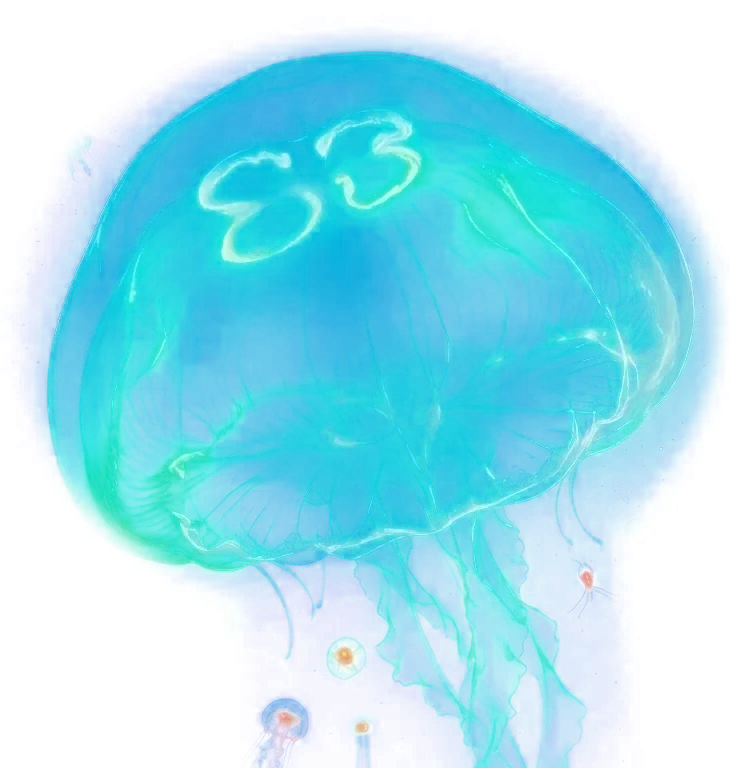
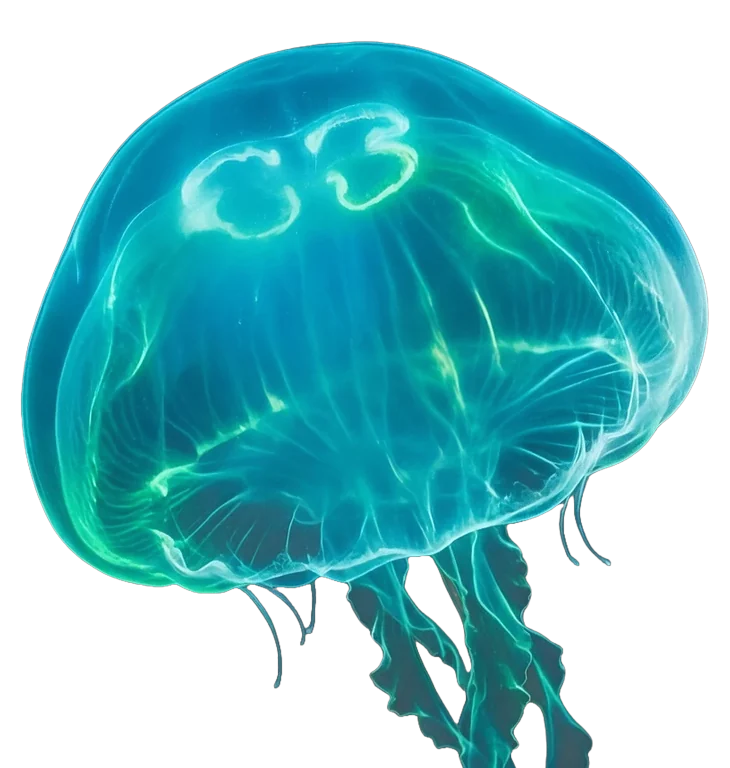
Catalog header: the clean, isolated jellyfish PNG
Replaces the jellyfish cut from the background picture (which carried
the small fish around it) with the supplied cut-out, slightly
translucent so the water shows through.

Claude-Session: https://claude.ai/code/session_0195hiXiVZY5DpQ2CCYEr2vL

diff --git a/index.html b/index.html
@@ -4,7 +4,7 @@
 <meta charset="UTF-8">
 <meta name="viewport" content="width=device-width, initial-scale=1">
 <title>Parts Catalog — Christian Gehrke</title>
-<link rel="stylesheet" href="css/catalog.css?v=1793640000">
+<link rel="stylesheet" href="css/catalog.css?v=1793650000">
 <link rel="stylesheet" href="css/logo.css?v=6">
 <link rel="icon" href="/favicon.ico?v=2" sizes="any"><link rel="icon" href="/favicon.svg?v=2" type="image/svg+xml"><link rel="apple-touch-icon" href="/apple-touch-icon.png?v=2">
 <script>/* Logo season from the calendar (the homepage sets it from its own scene). */document.documentElement.dataset.season=["winter","winter","spring","spring","spring","summer","summer","summer","fall","fall","fall","winter"][new Date().getMonth()];</script>
@@ -13,7 +13,7 @@
 <body class="deep">
 
 <header class="cat-head cat-hero">
-  <div class="hero-stage" aria-hidden="true"><div class="hero-sea"></div><div class="hero-shaft"></div><span class="hero-critter hc-fish hc-far"><img src="assets/hero/c-fish.webp" alt=""><img class="hc-glow" src="assets/hero/c-fish-glow.webp" alt=""></span><span class="hero-critter hc-larva hc-far"><img src="assets/hero/c-larva.webp" alt=""><img class="hc-glow" src="assets/hero/c-larva-glow.webp" alt=""></span><span class="hero-critter hc-comb hc-far"><img src="assets/hero/c-comb.webp" alt=""><img class="hc-glow" src="assets/hero/c-comb-glow.webp" alt=""></span><span class="hero-critter hc-moon hc-far"><img src="assets/hero/c-moon.webp" alt=""><img class="hc-glow" src="assets/hero/c-moon-glow.webp" alt=""></span><span class="hero-critter hc-blue hc-far"><img src="assets/hero/c-blue.webp" alt=""><img class="hc-glow" src="assets/hero/c-blue-glow.webp" alt=""></span><svg class="hero-snow-l"><g class="hero-snow" fill="#cfefff"><circle cx="61.1%" cy="4.3%" r="1.0" style="animation-duration:22.1s;animation-delay:-15.3s"/><circle cx="77.5%" cy="8.7%" r="0.9" style="animation-duration:24.4s;animation-delay:-15.2s"/><circle cx="45.1%" cy="40.2%" r="1.6" style="animation-duration:20.9s;animation-delay:-0.5s"/><circle cx="79.9%" cy="32.9%" r="1.0" style="animation-duration:16.6s;animation-delay:-11.5s"/><circle cx="32.5%" cy="8.9%" r="1.2" style="animation-duration:15.2s;animation-delay:-20.4s"/><circle cx="2.5%" cy="78.1%" r="1.4" style="animation-duration:20.0s;animation-delay:-18.4s"/><circle cx="24.8%" cy="73.8%" r="1.0" style="animation-duration:16.8s;animation-delay:-25.1s"/><circle cx="40.1%" cy="37.3%" r="1.5" style="animation-duration:18.4s;animation-delay:-17.4s"/><circle cx="17.1%" cy="84.3%" r="0.9" style="animation-duration:14.6s;animation-delay:-25.4s"/><circle cx="17.3%" cy="94.7%" r="1.6" style="animation-duration:21.3s;animation-delay:-0.3s"/><circle cx="6.1%" cy="20.9%" r="1.0" style="animation-duration:21.3s;animation-delay:-25.1s"/><circle cx="35.5%" cy="14.1%" r="1.2" style="animation-duration:15.6s;animation-delay:-2.3s"/><circle cx="55.6%" cy="69.6%" r="0.7" style="animation-duration:19.4s;animation-delay:-18.3s"/><circle cx="76.4%" cy="38.3%" r="1.5" style="animation-duration:16.0s;animation-delay:-18.6s"/><circle cx="77.2%" cy="88.0%" r="1.1" style="animation-duration:15.2s;animation-delay:-1.3s"/><circle cx="52.9%" cy="17.3%" r="1.2" style="animation-duration:15.0s;animation-delay:-20.3s"/><circle cx="22.2%" cy="1.3%" r="0.8" style="animation-duration:19.5s;animation-delay:-14.5s"/><circle cx="38.8%" cy="17.3%" r="1.1" style="animation-duration:25.4s;animation-delay:-13.9s"/><circle cx="94.1%" cy="2.9%" r="1.6" style="animation-duration:24.7s;animation-delay:-14.2s"/><circle cx="52.3%" cy="53.7%" r="1.5" style="animation-duration:14.8s;animation-delay:-16.7s"/><circle cx="54.2%" cy="30.0%" r="1.3" style="animation-duration:22.6s;animation-delay:-2.7s"/><circle cx="70.0%" cy="45.4%" r="1.1" style="animation-duration:21.6s;animation-delay:-1.4s"/><circle cx="60.3%" cy="37.3%" r="1.5" style="animation-duration:16.8s;animation-delay:-21.4s"/><circle cx="73.0%" cy="62.5%" r="1.5" style="animation-duration:14.4s;animation-delay:-15.5s"/><circle cx="61.3%" cy="67.8%" r="1.0" style="animation-duration:14.8s;animation-delay:-4.9s"/><circle cx="60.8%" cy="18.1%" r="0.7" style="animation-duration:18.3s;animation-delay:-12.2s"/><circle cx="53.6%" cy="2.6%" r="1.4" style="animation-duration:18.0s;animation-delay:-20.4s"/><circle cx="0.9%" cy="95.4%" r="1.2" style="animation-duration:25.7s;animation-delay:-25.6s"/><circle cx="83.3%" cy="10.6%" r="0.9" style="animation-duration:16.8s;animation-delay:-20.3s"/><circle cx="19.2%" cy="22.1%" r="0.7" style="animation-duration:15.4s;animation-delay:-24.4s"/><circle cx="97.6%" cy="37.2%" r="1.3" style="animation-duration:19.6s;animation-delay:-13.6s"/><circle cx="36.9%" cy="63.5%" r="0.8" style="animation-duration:17.1s;animation-delay:-13.5s"/><circle cx="19.7%" cy="43.9%" r="1.5" style="animation-duration:14.3s;animation-delay:-2.7s"/><circle cx="80.0%" cy="5.8%" r="0.9" style="animation-duration:24.2s;animation-delay:-15.7s"/><circle cx="22.1%" cy="5.9%" r="0.9" style="animation-duration:17.6s;animation-delay:-20.8s"/><circle cx="97.6%" cy="78.6%" r="1.5" style="animation-duration:25.2s;animation-delay:-22.8s"/><circle cx="92.0%" cy="96.8%" r="0.7" style="animation-duration:17.8s;animation-delay:-6.4s"/><circle cx="60.4%" cy="49.2%" r="0.9" style="animation-duration:24.0s;animation-delay:-10.4s"/><circle cx="20.9%" cy="27.6%" r="1.1" style="animation-duration:21.3s;animation-delay:-14.8s"/><circle cx="44.0%" cy="18.6%" r="1.0" style="animation-duration:17.9s;animation-delay:-4.4s"/><circle cx="54.4%" cy="18.9%" r="1.3" style="animation-duration:21.9s;animation-delay:-3.6s"/><circle cx="62.5%" cy="33.8%" r="1.0" style="animation-duration:21.3s;animation-delay:-19.8s"/><circle cx="88.4%" cy="73.4%" r="0.8" style="animation-duration:20.5s;animation-delay:-8.7s"/><circle cx="1.9%" cy="55.2%" r="1.1" style="animation-duration:24.4s;animation-delay:-8.4s"/><circle cx="83.4%" cy="51.4%" r="0.7" style="animation-duration:22.6s;animation-delay:-7.4s"/><circle cx="53.4%" cy="7.1%" r="0.6" style="animation-duration:25.1s;animation-delay:-1.1s"/><circle cx="14.9%" cy="16.3%" r="0.7" style="animation-duration:23.9s;animation-delay:-25.9s"/><circle cx="64.9%" cy="39.5%" r="1.5" style="animation-duration:20.1s;animation-delay:-3.5s"/><circle cx="69.0%" cy="35.9%" r="0.9" style="animation-duration:17.8s;animation-delay:-10.0s"/><circle cx="18.2%" cy="61.3%" r="1.5" style="animation-duration:20.8s;animation-delay:-0.2s"/><circle cx="68.4%" cy="2.0%" r="1.1" style="animation-duration:24.4s;animation-delay:-17.6s"/><circle cx="90.8%" cy="75.5%" r="0.9" style="animation-duration:15.7s;animation-delay:-11.7s"/><circle cx="68.0%" cy="23.2%" r="0.9" style="animation-duration:23.0s;animation-delay:-9.0s"/><circle cx="60.1%" cy="54.5%" r="1.5" style="animation-duration:14.3s;animation-delay:-4.8s"/><circle cx="77.9%" cy="66.9%" r="0.7" style="animation-duration:15.6s;animation-delay:-5.5s"/><circle cx="54.3%" cy="90.2%" r="0.8" style="animation-duration:16.4s;animation-delay:-17.8s"/><circle cx="42.3%" cy="84.7%" r="1.6" style="animation-duration:25.2s;animation-delay:-18.6s"/><circle cx="49.6%" cy="6.1%" r="1.4" style="animation-duration:18.8s;animation-delay:-12.1s"/><circle cx="63.2%" cy="96.4%" r="1.2" style="animation-duration:25.0s;animation-delay:-25.1s"/><circle cx="8.5%" cy="35.5%" r="1.5" style="animation-duration:23.2s;animation-delay:-25.2s"/><circle cx="18.6%" cy="53.1%" r="1.5" style="animation-duration:20.5s;animation-delay:-17.4s"/><circle cx="97.5%" cy="17.3%" r="0.7" style="animation-duration:24.2s;animation-delay:-15.1s"/><circle cx="20.0%" cy="83.2%" r="0.9" style="animation-duration:15.6s;animation-delay:-7.7s"/><circle cx="3.6%" cy="40.6%" r="1.4" style="animation-duration:19.4s;animation-delay:-25.1s"/><circle cx="4.2%" cy="17.3%" r="0.7" style="animation-duration:20.9s;animation-delay:-5.2s"/><circle cx="66.7%" cy="52.3%" r="1.2" style="animation-duration:24.1s;animation-delay:-20.5s"/><circle cx="92.2%" cy="15.2%" r="1.0" style="animation-duration:25.5s;animation-delay:-10.3s"/><circle cx="28.6%" cy="48.2%" r="0.8" style="animation-duration:24.2s;animation-delay:-16.5s"/><circle cx="9.5%" cy="96.4%" r="1.1" style="animation-duration:17.0s;animation-delay:-15.9s"/><circle cx="95.0%" cy="34.7%" r="0.6" style="animation-duration:16.4s;animation-delay:-1.5s"/></g></svg><span class="hero-critter hc-fish"><img src="assets/hero/c-fish.webp" alt=""><img class="hc-glow" src="assets/hero/c-fish-glow.webp" alt=""></span><span class="hero-critter hc-larva"><img src="assets/hero/c-larva.webp" alt=""><img class="hc-glow" src="assets/hero/c-larva-glow.webp" alt=""></span><span class="hero-critter hc-comb"><img src="assets/hero/c-comb.webp" alt=""><img class="hc-glow" src="assets/hero/c-comb-glow.webp" alt=""></span><span class="hero-critter hc-moon"><img src="assets/hero/c-moon.webp" alt=""><img class="hc-glow" src="assets/hero/c-moon-glow.webp" alt=""></span><span class="hero-critter hc-blue"><img src="assets/hero/c-blue.webp" alt=""><img class="hc-glow" src="assets/hero/c-blue-glow.webp" alt=""></span><div class="hero-group hero-g-a hero-float"><svg class="hero-fx" viewBox="160 0 730 768" overflow="visible"><defs><radialGradient id="hLamp"><stop offset="0" stop-color="#eaf8ff" stop-opacity=".9"/><stop offset=".35" stop-color="#8fd8ff" stop-opacity=".4"/><stop offset="1" stop-color="#3aa0ff" stop-opacity="0"/></radialGradient><radialGradient id="hCube"><stop offset="0" stop-color="#c58bff" stop-opacity=".75"/><stop offset=".45" stop-color="#6fd6ff" stop-opacity=".3"/><stop offset="1" stop-color="#5a3cff" stop-opacity="0"/></radialGradient><radialGradient id="hJelly"><stop offset="0" stop-color="#7fffe0" stop-opacity=".42"/><stop offset=".6" stop-color="#2fd0c8" stop-opacity=".18"/><stop offset="1" stop-color="#0a8fb0" stop-opacity="0"/></radialGradient></defs><circle class="hero-glow hero-g-jelly" cx="538" cy="318" r="330" fill="url(#hJelly)"/></svg><img class="hero-jelly" src="assets/hero/jelly.webp" alt=""><img class="hero-dog" src="assets/hero/dog.webp" alt=""><svg class="hero-fx" viewBox="160 0 730 768" overflow="visible"><g fill="none" stroke="#bfeeff" stroke-width="1.6" opacity=".8"><circle class="hero-bub" cx="437" cy="70" r="2.8" style="--sw:-10px;animation-duration:8.9s;animation-delay:-0.9s"/><circle class="hero-bub" cx="464" cy="70" r="3.9" style="--sw:10px;animation-duration:9.2s;animation-delay:-0.4s"/><circle class="hero-bub" cx="562" cy="70" r="3.4" style="--sw:-10px;animation-duration:9.6s;animation-delay:-7.5s"/><circle class="hero-bub" cx="451" cy="70" r="3.7" style="--sw:-10px;animation-duration:8.2s;animation-delay:-9.1s"/></g></svg></div><div class="hero-group hero-g-b hero-diver"><img src="assets/hero/diver.webp" alt=""><img src="assets/hero/cube.webp" alt=""><svg class="hero-fx" viewBox="735 60 615 600" overflow="visible"><circle class="hero-glow hero-g-lamp" cx="920" cy="165" r="95" fill="url(#hLamp)"/><circle class="hero-glow hero-g-lamp2" cx="1158" cy="290" r="88" fill="url(#hLamp)"/><circle class="hero-glow hero-g-cube" cx="875" cy="520" r="150" fill="url(#hCube)"/><g fill="none" stroke="#bfeeff" stroke-width="1.6" opacity=".85"><circle class="hero-bub" cx="1014" cy="92" r="5.1" style="--sw:-14px;animation-duration:5.8s;animation-delay:-1.5s"/><circle class="hero-bub" cx="1006" cy="92" r="4.8" style="--sw:-14px;animation-duration:7.7s;animation-delay:-0.6s"/><circle class="hero-bub" cx="1031" cy="92" r="4.3" style="--sw:14px;animation-duration:7.1s;animation-delay:-3.6s"/><circle class="hero-bub" cx="995" cy="92" r="3.6" style="--sw:-14px;animation-duration:5.2s;animation-delay:-1.1s"/><circle class="hero-bub" cx="1034" cy="92" r="5.4" style="--sw:8px;animation-duration:7.4s;animation-delay:-7.1s"/><circle class="hero-bub" cx="998" cy="92" r="5.4" style="--sw:-14px;animation-duration:7.2s;animation-delay:-3.4s"/><circle class="hero-bub" cx="1034" cy="92" r="3.9" style="--sw:-14px;animation-duration:5.6s;animation-delay:-2.2s"/><circle class="hero-bub" cx="1177" cy="108" r="4.3" style="--sw:10px;animation-duration:5.5s;animation-delay:-3.3s"/><circle class="hero-bub" cx="1196" cy="108" r="2.8" style="--sw:-10px;animation-duration:6.2s;animation-delay:-5.9s"/><circle class="hero-bub" cx="1203" cy="108" r="2.5" style="--sw:-10px;animation-duration:7.8s;animation-delay:-1.6s"/><circle class="hero-bub" cx="1186" cy="108" r="2.5" style="--sw:-10px;animation-duration:5.8s;animation-delay:-4.3s"/><circle class="hero-bub" cx="1197" cy="108" r="2.7" style="--sw:10px;animation-duration:7.0s;animation-delay:-7.4s"/></g></svg></div></div>
+  <div class="hero-stage" aria-hidden="true"><div class="hero-sea"></div><div class="hero-shaft"></div><span class="hero-critter hc-fish hc-far"><img src="assets/hero/c-fish.webp" alt=""><img class="hc-glow" src="assets/hero/c-fish-glow.webp" alt=""></span><span class="hero-critter hc-larva hc-far"><img src="assets/hero/c-larva.webp" alt=""><img class="hc-glow" src="assets/hero/c-larva-glow.webp" alt=""></span><span class="hero-critter hc-comb hc-far"><img src="assets/hero/c-comb.webp" alt=""><img class="hc-glow" src="assets/hero/c-comb-glow.webp" alt=""></span><span class="hero-critter hc-moon hc-far"><img src="assets/hero/c-moon.webp" alt=""><img class="hc-glow" src="assets/hero/c-moon-glow.webp" alt=""></span><span class="hero-critter hc-blue hc-far"><img src="assets/hero/c-blue.webp" alt=""><img class="hc-glow" src="assets/hero/c-blue-glow.webp" alt=""></span><svg class="hero-snow-l"><g class="hero-snow" fill="#cfefff"><circle cx="61.1%" cy="4.3%" r="1.0" style="animation-duration:22.1s;animation-delay:-15.3s"/><circle cx="77.5%" cy="8.7%" r="0.9" style="animation-duration:24.4s;animation-delay:-15.2s"/><circle cx="45.1%" cy="40.2%" r="1.6" style="animation-duration:20.9s;animation-delay:-0.5s"/><circle cx="79.9%" cy="32.9%" r="1.0" style="animation-duration:16.6s;animation-delay:-11.5s"/><circle cx="32.5%" cy="8.9%" r="1.2" style="animation-duration:15.2s;animation-delay:-20.4s"/><circle cx="2.5%" cy="78.1%" r="1.4" style="animation-duration:20.0s;animation-delay:-18.4s"/><circle cx="24.8%" cy="73.8%" r="1.0" style="animation-duration:16.8s;animation-delay:-25.1s"/><circle cx="40.1%" cy="37.3%" r="1.5" style="animation-duration:18.4s;animation-delay:-17.4s"/><circle cx="17.1%" cy="84.3%" r="0.9" style="animation-duration:14.6s;animation-delay:-25.4s"/><circle cx="17.3%" cy="94.7%" r="1.6" style="animation-duration:21.3s;animation-delay:-0.3s"/><circle cx="6.1%" cy="20.9%" r="1.0" style="animation-duration:21.3s;animation-delay:-25.1s"/><circle cx="35.5%" cy="14.1%" r="1.2" style="animation-duration:15.6s;animation-delay:-2.3s"/><circle cx="55.6%" cy="69.6%" r="0.7" style="animation-duration:19.4s;animation-delay:-18.3s"/><circle cx="76.4%" cy="38.3%" r="1.5" style="animation-duration:16.0s;animation-delay:-18.6s"/><circle cx="77.2%" cy="88.0%" r="1.1" style="animation-duration:15.2s;animation-delay:-1.3s"/><circle cx="52.9%" cy="17.3%" r="1.2" style="animation-duration:15.0s;animation-delay:-20.3s"/><circle cx="22.2%" cy="1.3%" r="0.8" style="animation-duration:19.5s;animation-delay:-14.5s"/><circle cx="38.8%" cy="17.3%" r="1.1" style="animation-duration:25.4s;animation-delay:-13.9s"/><circle cx="94.1%" cy="2.9%" r="1.6" style="animation-duration:24.7s;animation-delay:-14.2s"/><circle cx="52.3%" cy="53.7%" r="1.5" style="animation-duration:14.8s;animation-delay:-16.7s"/><circle cx="54.2%" cy="30.0%" r="1.3" style="animation-duration:22.6s;animation-delay:-2.7s"/><circle cx="70.0%" cy="45.4%" r="1.1" style="animation-duration:21.6s;animation-delay:-1.4s"/><circle cx="60.3%" cy="37.3%" r="1.5" style="animation-duration:16.8s;animation-delay:-21.4s"/><circle cx="73.0%" cy="62.5%" r="1.5" style="animation-duration:14.4s;animation-delay:-15.5s"/><circle cx="61.3%" cy="67.8%" r="1.0" style="animation-duration:14.8s;animation-delay:-4.9s"/><circle cx="60.8%" cy="18.1%" r="0.7" style="animation-duration:18.3s;animation-delay:-12.2s"/><circle cx="53.6%" cy="2.6%" r="1.4" style="animation-duration:18.0s;animation-delay:-20.4s"/><circle cx="0.9%" cy="95.4%" r="1.2" style="animation-duration:25.7s;animation-delay:-25.6s"/><circle cx="83.3%" cy="10.6%" r="0.9" style="animation-duration:16.8s;animation-delay:-20.3s"/><circle cx="19.2%" cy="22.1%" r="0.7" style="animation-duration:15.4s;animation-delay:-24.4s"/><circle cx="97.6%" cy="37.2%" r="1.3" style="animation-duration:19.6s;animation-delay:-13.6s"/><circle cx="36.9%" cy="63.5%" r="0.8" style="animation-duration:17.1s;animation-delay:-13.5s"/><circle cx="19.7%" cy="43.9%" r="1.5" style="animation-duration:14.3s;animation-delay:-2.7s"/><circle cx="80.0%" cy="5.8%" r="0.9" style="animation-duration:24.2s;animation-delay:-15.7s"/><circle cx="22.1%" cy="5.9%" r="0.9" style="animation-duration:17.6s;animation-delay:-20.8s"/><circle cx="97.6%" cy="78.6%" r="1.5" style="animation-duration:25.2s;animation-delay:-22.8s"/><circle cx="92.0%" cy="96.8%" r="0.7" style="animation-duration:17.8s;animation-delay:-6.4s"/><circle cx="60.4%" cy="49.2%" r="0.9" style="animation-duration:24.0s;animation-delay:-10.4s"/><circle cx="20.9%" cy="27.6%" r="1.1" style="animation-duration:21.3s;animation-delay:-14.8s"/><circle cx="44.0%" cy="18.6%" r="1.0" style="animation-duration:17.9s;animation-delay:-4.4s"/><circle cx="54.4%" cy="18.9%" r="1.3" style="animation-duration:21.9s;animation-delay:-3.6s"/><circle cx="62.5%" cy="33.8%" r="1.0" style="animation-duration:21.3s;animation-delay:-19.8s"/><circle cx="88.4%" cy="73.4%" r="0.8" style="animation-duration:20.5s;animation-delay:-8.7s"/><circle cx="1.9%" cy="55.2%" r="1.1" style="animation-duration:24.4s;animation-delay:-8.4s"/><circle cx="83.4%" cy="51.4%" r="0.7" style="animation-duration:22.6s;animation-delay:-7.4s"/><circle cx="53.4%" cy="7.1%" r="0.6" style="animation-duration:25.1s;animation-delay:-1.1s"/><circle cx="14.9%" cy="16.3%" r="0.7" style="animation-duration:23.9s;animation-delay:-25.9s"/><circle cx="64.9%" cy="39.5%" r="1.5" style="animation-duration:20.1s;animation-delay:-3.5s"/><circle cx="69.0%" cy="35.9%" r="0.9" style="animation-duration:17.8s;animation-delay:-10.0s"/><circle cx="18.2%" cy="61.3%" r="1.5" style="animation-duration:20.8s;animation-delay:-0.2s"/><circle cx="68.4%" cy="2.0%" r="1.1" style="animation-duration:24.4s;animation-delay:-17.6s"/><circle cx="90.8%" cy="75.5%" r="0.9" style="animation-duration:15.7s;animation-delay:-11.7s"/><circle cx="68.0%" cy="23.2%" r="0.9" style="animation-duration:23.0s;animation-delay:-9.0s"/><circle cx="60.1%" cy="54.5%" r="1.5" style="animation-duration:14.3s;animation-delay:-4.8s"/><circle cx="77.9%" cy="66.9%" r="0.7" style="animation-duration:15.6s;animation-delay:-5.5s"/><circle cx="54.3%" cy="90.2%" r="0.8" style="animation-duration:16.4s;animation-delay:-17.8s"/><circle cx="42.3%" cy="84.7%" r="1.6" style="animation-duration:25.2s;animation-delay:-18.6s"/><circle cx="49.6%" cy="6.1%" r="1.4" style="animation-duration:18.8s;animation-delay:-12.1s"/><circle cx="63.2%" cy="96.4%" r="1.2" style="animation-duration:25.0s;animation-delay:-25.1s"/><circle cx="8.5%" cy="35.5%" r="1.5" style="animation-duration:23.2s;animation-delay:-25.2s"/><circle cx="18.6%" cy="53.1%" r="1.5" style="animation-duration:20.5s;animation-delay:-17.4s"/><circle cx="97.5%" cy="17.3%" r="0.7" style="animation-duration:24.2s;animation-delay:-15.1s"/><circle cx="20.0%" cy="83.2%" r="0.9" style="animation-duration:15.6s;animation-delay:-7.7s"/><circle cx="3.6%" cy="40.6%" r="1.4" style="animation-duration:19.4s;animation-delay:-25.1s"/><circle cx="4.2%" cy="17.3%" r="0.7" style="animation-duration:20.9s;animation-delay:-5.2s"/><circle cx="66.7%" cy="52.3%" r="1.2" style="animation-duration:24.1s;animation-delay:-20.5s"/><circle cx="92.2%" cy="15.2%" r="1.0" style="animation-duration:25.5s;animation-delay:-10.3s"/><circle cx="28.6%" cy="48.2%" r="0.8" style="animation-duration:24.2s;animation-delay:-16.5s"/><circle cx="9.5%" cy="96.4%" r="1.1" style="animation-duration:17.0s;animation-delay:-15.9s"/><circle cx="95.0%" cy="34.7%" r="0.6" style="animation-duration:16.4s;animation-delay:-1.5s"/></g></svg><span class="hero-critter hc-fish"><img src="assets/hero/c-fish.webp" alt=""><img class="hc-glow" src="assets/hero/c-fish-glow.webp" alt=""></span><span class="hero-critter hc-larva"><img src="assets/hero/c-larva.webp" alt=""><img class="hc-glow" src="assets/hero/c-larva-glow.webp" alt=""></span><span class="hero-critter hc-comb"><img src="assets/hero/c-comb.webp" alt=""><img class="hc-glow" src="assets/hero/c-comb-glow.webp" alt=""></span><span class="hero-critter hc-moon"><img src="assets/hero/c-moon.webp" alt=""><img class="hc-glow" src="assets/hero/c-moon-glow.webp" alt=""></span><span class="hero-critter hc-blue"><img src="assets/hero/c-blue.webp" alt=""><img class="hc-glow" src="assets/hero/c-blue-glow.webp" alt=""></span><div class="hero-group hero-g-a hero-float"><svg class="hero-fx" viewBox="160 0 730 768" overflow="visible"><defs><radialGradient id="hLamp"><stop offset="0" stop-color="#eaf8ff" stop-opacity=".9"/><stop offset=".35" stop-color="#8fd8ff" stop-opacity=".4"/><stop offset="1" stop-color="#3aa0ff" stop-opacity="0"/></radialGradient><radialGradient id="hCube"><stop offset="0" stop-color="#c58bff" stop-opacity=".75"/><stop offset=".45" stop-color="#6fd6ff" stop-opacity=".3"/><stop offset="1" stop-color="#5a3cff" stop-opacity="0"/></radialGradient><radialGradient id="hJelly"><stop offset="0" stop-color="#7fffe0" stop-opacity=".42"/><stop offset=".6" stop-color="#2fd0c8" stop-opacity=".18"/><stop offset="1" stop-color="#0a8fb0" stop-opacity="0"/></radialGradient></defs><circle class="hero-glow hero-g-jelly" cx="538" cy="318" r="330" fill="url(#hJelly)"/></svg><img class="hero-jelly" src="assets/hero/jelly.webp?v=2" alt=""><img class="hero-dog" src="assets/hero/dog.webp" alt=""><svg class="hero-fx" viewBox="160 0 730 768" overflow="visible"><g fill="none" stroke="#bfeeff" stroke-width="1.6" opacity=".8"><circle class="hero-bub" cx="437" cy="70" r="2.8" style="--sw:-10px;animation-duration:8.9s;animation-delay:-0.9s"/><circle class="hero-bub" cx="464" cy="70" r="3.9" style="--sw:10px;animation-duration:9.2s;animation-delay:-0.4s"/><circle class="hero-bub" cx="562" cy="70" r="3.4" style="--sw:-10px;animation-duration:9.6s;animation-delay:-7.5s"/><circle class="hero-bub" cx="451" cy="70" r="3.7" style="--sw:-10px;animation-duration:8.2s;animation-delay:-9.1s"/></g></svg></div><div class="hero-group hero-g-b hero-diver"><img src="assets/hero/diver.webp" alt=""><img src="assets/hero/cube.webp" alt=""><svg class="hero-fx" viewBox="735 60 615 600" overflow="visible"><circle class="hero-glow hero-g-lamp" cx="920" cy="165" r="95" fill="url(#hLamp)"/><circle class="hero-glow hero-g-lamp2" cx="1158" cy="290" r="88" fill="url(#hLamp)"/><circle class="hero-glow hero-g-cube" cx="875" cy="520" r="150" fill="url(#hCube)"/><g fill="none" stroke="#bfeeff" stroke-width="1.6" opacity=".85"><circle class="hero-bub" cx="1014" cy="92" r="5.1" style="--sw:-14px;animation-duration:5.8s;animation-delay:-1.5s"/><circle class="hero-bub" cx="1006" cy="92" r="4.8" style="--sw:-14px;animation-duration:7.7s;animation-delay:-0.6s"/><circle class="hero-bub" cx="1031" cy="92" r="4.3" style="--sw:14px;animation-duration:7.1s;animation-delay:-3.6s"/><circle class="hero-bub" cx="995" cy="92" r="3.6" style="--sw:-14px;animation-duration:5.2s;animation-delay:-1.1s"/><circle class="hero-bub" cx="1034" cy="92" r="5.4" style="--sw:8px;animation-duration:7.4s;animation-delay:-7.1s"/><circle class="hero-bub" cx="998" cy="92" r="5.4" style="--sw:-14px;animation-duration:7.2s;animation-delay:-3.4s"/><circle class="hero-bub" cx="1034" cy="92" r="3.9" style="--sw:-14px;animation-duration:5.6s;animation-delay:-2.2s"/><circle class="hero-bub" cx="1177" cy="108" r="4.3" style="--sw:10px;animation-duration:5.5s;animation-delay:-3.3s"/><circle class="hero-bub" cx="1196" cy="108" r="2.8" style="--sw:-10px;animation-duration:6.2s;animation-delay:-5.9s"/><circle class="hero-bub" cx="1203" cy="108" r="2.5" style="--sw:-10px;animation-duration:7.8s;animation-delay:-1.6s"/><circle class="hero-bub" cx="1186" cy="108" r="2.5" style="--sw:-10px;animation-duration:5.8s;animation-delay:-4.3s"/><circle class="hero-bub" cx="1197" cy="108" r="2.7" style="--sw:10px;animation-duration:7.0s;animation-delay:-7.4s"/></g></svg></div></div>
   <div class="hero-text"><a class="cat-brand" href="../">Parts Catalog</a>
   <p class="cat-tagline">Every object the scene engine knows how to build — searchable, grouped, and demoed live with the same code that runs in production. New parts start in the <a href="workshop.html">Workshop</a>.</p></div>
 </header>

diff --git a/css/catalog.css b/css/catalog.css
@@ -409,3 +409,4 @@ body.deep .cat-body p.cat-tags{color:var(--d-ink2)!important}
   .cat-hero .cat-tagline{font-size:14px}}
 @media (prefers-reduced-motion:reduce){.hero-shaft,.hero-critter,.hc-glow,.hero-diver,.hero-critter,.hero-float,.hero-glow,.hero-ray,.hero-bub,.hero-snow circle{animation:none}.hero-glow{opacity:.6}}
 body.deep{background:linear-gradient(180deg,#061429 0,#071a33 420px,#040b1a 100%) fixed}
+.hero-group .hero-jelly{opacity:.86}
